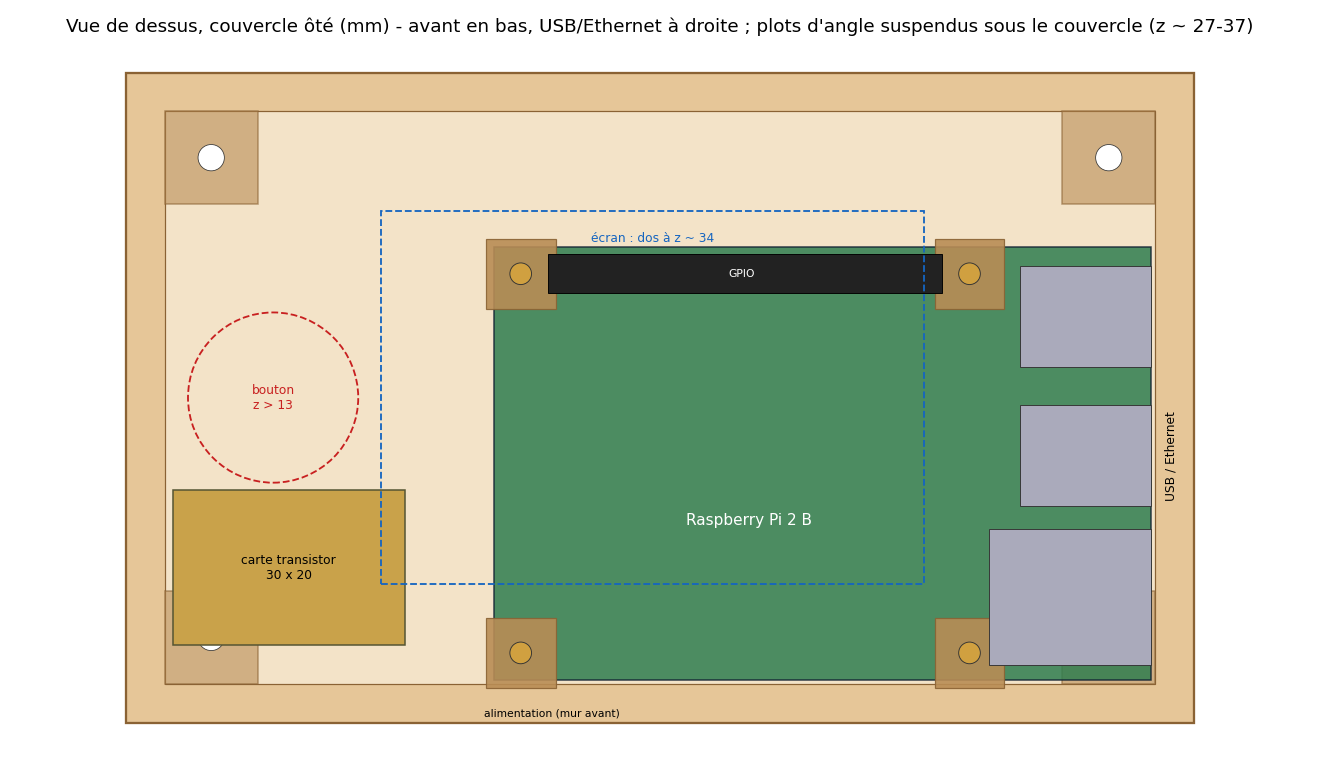
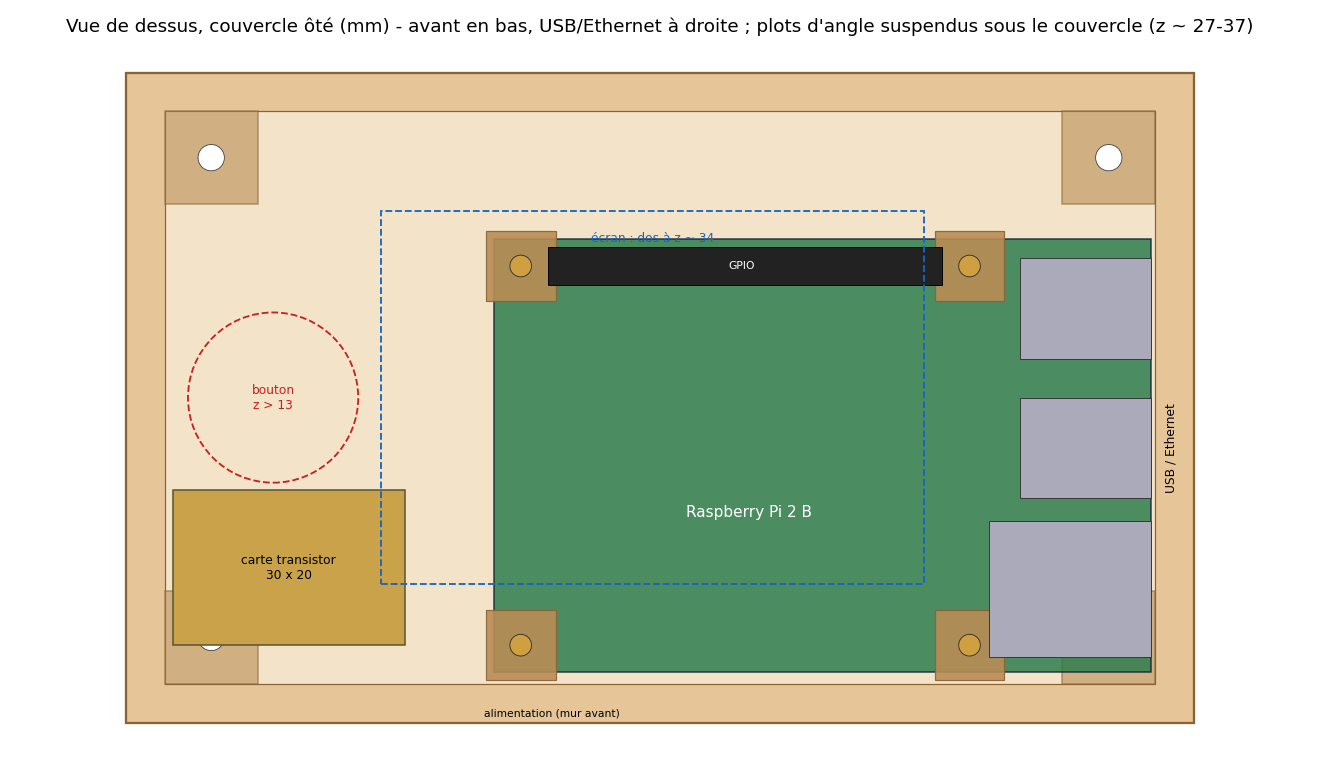
Boîtier : Pi reculé d'1 mm du mur avant (bande de bois plus large autour de l'ouverture des ports)

diff --git a/boitier/boitier.py b/boitier/boitier.py
@@ -27,7 +27,7 @@ L, W, H = 128.0, 74.0, 38.0   # cavité intérieure : longueur (x), largeur (y),
 # Raspberry Pi 2 B : USB/Ethernet à droite (mur droit), prise d'alimentation sur le mur avant
 PI_L, PI_W = 85.0, 56.0
 PI_JOUR_DROITE = 0.5           # jeu entre la carte et le mur droit (les prises USB/Ethernet doivent rester accessibles)
-PI_JOUR_AVANT = 0.5            # jeu entre la carte et le mur avant (prise micro-USB d'alimentation : plus près = fiche accessible)
+PI_JOUR_AVANT = 1.5            # jeu entre la carte et le mur avant (prise micro-USB d'alimentation : plus près = fiche accessible)
 # La carte repose sur 4 piliers en contreplaqué collés au fond (hauteur = épaisseur T), percés du trou de la vis ;
 # l'écrou est emprisonné dans un trou hexagonal du fond (il ne tourne pas), inséré par le dessous.
 PI_TROUS = [(3.5, 3.5), (61.5, 3.5), (3.5, 52.5), (61.5, 52.5)]   # M2,5 (58 x 49)

diff --git a/docs/boitier.md b/docs/boitier.md
@@ -5,7 +5,7 @@ Généré par `boitier/boitier.py` (stdlib) : `py boitier/boitier.py [--kerf 0.1
 **Jamais découpé à ce jour** : cotes du Pi tirées du plan standard, cotes de l'écran lues sur la photo du vendeur (**à mesurer**).
 
 ## Dimensions
-Extérieur 138 × 84 × 48 mm (cavité 128 × 74 × 38, contreplaqué **5 mm** mesuré). Pi à droite et **collé au mur avant** (jeu 0,5 mm : USB/Ethernet contre le mur droit, prise micro-USB d'alimentation contre le mur avant, fiche accessible malgré 5 mm de paroi), bouton (filetage 11,62 mm) à gauche, écran 2,42" (70,1 × 48,1) à droite du bouton. Le bouton (corps ≈ 25 mm) est hors de l'emprise du Pi ; l'écran n'est pas au-dessus des ports USB/Ethernet (qui montent à ~25 mm). La hauteur de 38 mm laisse la place aux fils Dupont sur les broches GPIO.
+Extérieur 138 × 84 × 48 mm (cavité 128 × 74 × 38, contreplaqué **5 mm** mesuré). Pi à droite et **près du mur avant** (jeu 1,5 mm : USB/Ethernet contre le mur droit, prise micro-USB d'alimentation contre le mur avant, fiche accessible malgré 5 mm de paroi), bouton (filetage 11,62 mm) à gauche, écran 2,42" (70,1 × 48,1) à droite du bouton. Le bouton (corps ≈ 25 mm) est hors de l'emprise du Pi ; l'écran n'est pas au-dessus des ports USB/Ethernet (qui montent à ~25 mm). La hauteur de 38 mm laisse la place aux fils Dupont sur les broches GPIO.
 
 ## Faire d'abord la planche d'essai
 1. Épaisseur du contreplaqué : 5 mm (mesuré le 22/11/2026) → valeur par défaut de `T`.
@@ -17,18 +17,18 @@ Extérieur 138 × 84 × 48 mm (cavité 128 × 74 × 38, contreplaqué **5 mm** m
 - **Collé (colle à bois)** : les 4 parois entre elles, puis le fond sur les tenons. Serrer à l'élastique, essuyer l'excès. Les tenons affleurent le bord du fond : ils restent visibles (aspect « bout de bois »), ponçables après séchage.
 - **Plots d'angle (×4)** : 2 couches de 12 × 12 mm, `plot_ecrou` (alvéole hexagonale traversante de 5,2 mm sur plats pour un écrou M2,5) au-dessus de `plot_fond` (trou Ø2,7), collées ensemble avec l'écrou dans l'alvéole, non collé (il se pose au fond de l'alvéole et ne tourne pas). Coller chaque plot dans un angle intérieur, **face haute à fleur du bord supérieur des parois**.
 - **Couvercle démontable** : 4 boulons **M2,5 raccourcis à 14 mm** (rondelle sous la tête) traversent le couvercle (5 mm) et l'écrou posé au fond de l'alvéole (de 8 à 10 mm sous la face du couvercle) ; la pointe finit dans le trou de la couche inférieure. Rien ne tourne dans le bois.
-- **Pi** : les trous de la carte font 2,75 mm : le M2,5 y passe ajusté (le M4 ne passe pas). 4 **piliers** `pilier_pi` (9 × 9 × 5 mm, trou Ø2,7) sont collés sur le fond aux repères gravés ; un écrou M2,5 est inséré **par le dessous** dans chaque trou hexagonal du fond (il ne tourne pas ; une goutte de colle l'empêche de ressortir), puis 4 boulons **M2,5 raccourcis à 10 mm** (rondelle sous la tête) traversent la carte et le pilier et se vissent dans l'écrou. Pas d'entretoise filetée à acheter. Les deux piliers avant sont rognés de 0,5 mm côté mur avant.
+- **Pi** : les trous de la carte font 2,75 mm : le M2,5 y passe ajusté (le M4 ne passe pas). 4 **piliers** `pilier_pi` (9 × 9 × 5 mm, trou Ø2,7) sont collés sur le fond aux repères gravés ; un écrou M2,5 est inséré **par le dessous** dans chaque trou hexagonal du fond (il ne tourne pas ; une goutte de colle l'empêche de ressortir), puis 4 boulons **M2,5 raccourcis à 10 mm** (rondelle sous la tête) traversent la carte et le pilier et se vissent dans l'écrou. Pas d'entretoise filetée à acheter.
 - **Écran** : 4 boulons **M2,5 raccourcis à 10 mm** depuis la face avant (tête visible), carte plaquée contre le couvercle (le verre entre dans la fenêtre), écrou M2,5 derrière : couvercle 5 mm + carte 1,6 + écrou 2 (+ rondelles 2 × 0,5) = 9,6 mm. Si une entretoise est nécessaire (verre trop épais pour la fenêtre), ajouter sa hauteur (vis de 12 mm). **Les trous de l'écran (Ø2,7) ne laissent que 0,45 mm de bois contre les coins de la fenêtre** : ne pas serrer fort, ou ne pas mettre de rondelle côté couvercle. Fils Dupont assez longs (≈ 15 cm) pour poser le couvercle à côté de la boîte.
 - **Bouton** : trou de Ø12 mm (filetage mesuré 11,62 mm), bague de serrage derrière.
 
 ## Ouvertures
-Mur droit : **une seule ouverture** de 54,7 × 20,6 mm pour Ethernet + 2 USB (marges de 1,3 à 3 mm autour des prises : un manchon de fiche est plus large que la prise) ; mur avant : micro-USB d'alimentation, 18 × 11 mm. Les fiches doivent traverser 5 mm de contreplaqué + 0,5 mm de jeu avant d'atteindre la prise : **à essayer avec vos vraies fiches** (gabarit en carton ou découpe d'essai de la paroi) avant de tout coller. Fentes d'aération : mur gauche, mur arrière, fond (sans toucher aux queues droites). **Carte micro-SD** : pas d'accès extérieur (elle est sous le Pi, loin des parois ; les mises à jour se font en OTA). Pour la changer, ouvrir le couvercle.
+Mur droit : **une seule ouverture** de 54,7 × 20,6 mm pour Ethernet + 2 USB (marges de 1,3 à 3 mm autour des prises : un manchon de fiche est plus large que la prise) ; mur avant : micro-USB d'alimentation, 18 × 11 mm. Les fiches doivent traverser 5 mm de contreplaqué + 0,5 mm de jeu (1,5 mm côté micro-USB) avant d'atteindre la prise : **à essayer avec vos vraies fiches** (gabarit en carton ou découpe d'essai de la paroi) avant de tout coller. Fentes d'aération : mur gauche, mur arrière, fond (sans toucher aux queues droites). **Carte micro-SD** : pas d'accès extérieur (elle est sous le Pi, loin des parois ; les mises à jour se font en OTA). Pour la changer, ouvrir le couvercle.
 
 ## Quincaillerie
 12 boulons **M2,5 × 20** avec écrou (5,0 mm sur plats, 2 mm) et rondelle, à raccourcir à la scie ou à la meuleuse : 4 à 14 mm (couvercle), 8 à 10 mm (4 pour le Pi, 4 pour l'écran) ; ébavurer les bouts coupés pour que l'écrou passe ; 1 bouton à anneau rouge (filetage 11,62 mm) ; 4 pieds adhésifs (facultatifs).
 
 ## Câblage interne et petite carte
-**Attention, GPIO sous l'écran** : le Pi étant collé au mur avant, son connecteur GPIO (y ≈ 51-56 mm) passe sous l'écran (y 13-61 mm) : embouts des Dupont droits vers z ≈ 30, dos de l'écran vers z ≈ 34-36 : 4 à 6 mm de jeu pour courber les fils. Si ça frotte : connecteurs coudés ou fils soudés.
+**Attention, GPIO sous l'écran** : le Pi étant près du mur avant, son connecteur GPIO (y ≈ 51-56 mm) passe sous l'écran (y 13-61 mm) : embouts des Dupont droits vers z ≈ 30, dos de l'écran vers z ≈ 34-36 : 4 à 6 mm de jeu pour courber les fils. Si ça frotte : connecteurs coudés ou fils soudés.
 Fils Dupont droits : l'écran (dos de la carte vers z ≈ 34 mm, embouts vers z ≈ 17-20) et le connecteur GPIO du Pi (embouts vers z ≈ 30) tiennent sous le couvercle ; broches à 90° inutiles tant que le connecteur mesure moins de ~25 mm. Fils de 15 cm minimum. La carte du transistor (30 × 20 mm) se pose au fond à l'avant gauche (repère **gravé en bleu** sur le fond, `CARTE_*` dans `boitier.py` ; fixation par mousse double face, ou `CARTE_TROUS` si l'on veut la visser) : cette zone est hors de l'emprise du bouton (corps à z > 13 mm, y 26-48).
 
 ## Gravures (bleu dans `boitier.svg`, à régler à part de la découpe)

diff --git a/CLAUDE.md b/CLAUDE.md
@@ -20,7 +20,7 @@ Enregistrer une répétition ou un concert : les 16 entrées indépendantes de l
 - `xr18rec/` (stdlib uniquement) : `config.py` (JSON + validation), `session.py` (pilote `arecord`, compte les overruns, surveille le disque), `server.py` (HTTP + API JSON), `wavtools.py` (lecture d'en-têtes, séparation en WAV mono), `xr18osc.py` (noms/couleurs des voies via OSC UDP 10024), `storage.py` (emplacements d'enregistrement), `mixer.py` (pont HTTP→OSC du mix de retour), `static/mix.html` (page musiciens), `qr.py` (QR code SVG, stdlib, servi sur `/qr/mix.svg` avec l'adresse utilisée par le client), `reaper.py` (génère le `.rpp`), `static/index.html` (accueil : état, bouton unique REC/STOP à droite du chronomètre, arrêt en deux temps, QR, mute), `static/rec.html` (page `/rec` : état, stockage, sessions + zip), `static/app.css|js` (partagés, servis par `/static/<fichier>`), `click.py` (métronome), `__main__.py` (CLI : `serve`, `split`, `info`, `config`, `names`, `reaper`, `mixprobe`).
 - `tests/` : `python3 -m unittest discover -s tests` avec un **faux arecord** (`tests/fake_arecord.py`).
 - `scripts/` : `probe-xr18.sh`, `soak-test.sh`, `install-pi.sh`, `deploy.sh`, `xr18rec.service`.
-- `boitier/` : boîtier en contreplaqué 5 mm (mesuré) pour la découpe laser (xTool D20) : `boitier.py` génère `boitier.svg` + `couvercle.svg` (couvercle seul) + `essai.svg` (queues droites collées, fond sur tenons, couvercle démontable par 4 vis M2,5 de 14 mm dans des écrous M2,5 emprisonnés dans des plots d'angle (tout le boîtier en boulons M2,5×20 raccourcis : couvercle 14 mm, Pi et écran 10 mm) ; Pi posé sur 4 piliers de contreplaqué collés au fond, écrous M2,5 insérés par le dessous dans des trous hexagonaux du fond ; Pi collé au mur avant pour la prise micro-USB ; **GPIO sous l'écran : jeu de 4-6 mm pour les Dupont**), `rendu.py` fait les aperçus PNG ; doc `docs/boitier.md`. **Jamais découpé** : cotes de l'écran 2,42" (entraxe des trous, fenêtre) et kerf **à vérifier** avec la planche d'essai.
+- `boitier/` : boîtier en contreplaqué 5 mm (mesuré) pour la découpe laser (xTool D20) : `boitier.py` génère `boitier.svg` + `couvercle.svg` (couvercle seul) + `essai.svg` (queues droites collées, fond sur tenons, couvercle démontable par 4 vis M2,5 de 14 mm dans des écrous M2,5 emprisonnés dans des plots d'angle (tout le boîtier en boulons M2,5×20 raccourcis : couvercle 14 mm, Pi et écran 10 mm) ; Pi posé sur 4 piliers de contreplaqué collés au fond, écrous M2,5 insérés par le dessous dans des trous hexagonaux du fond ; Pi à 1,5 mm du mur avant pour la prise micro-USB (bande de bois de 2,45 mm entre le mur avant et l'ouverture des ports) ; **GPIO sous l'écran : jeu de 4-6 mm pour les Dupont**), `rendu.py` fait les aperçus PNG ; doc `docs/boitier.md`. **Jamais découpé** : cotes de l'écran 2,42" (entraxe des trous, fenêtre) et kerf **à vérifier** avec la planche d'essai.
 - `config/xr18rec.json` : exemple de configuration. `docs/` : architecture, disque/formats, plan de tests.
 
 ## API
